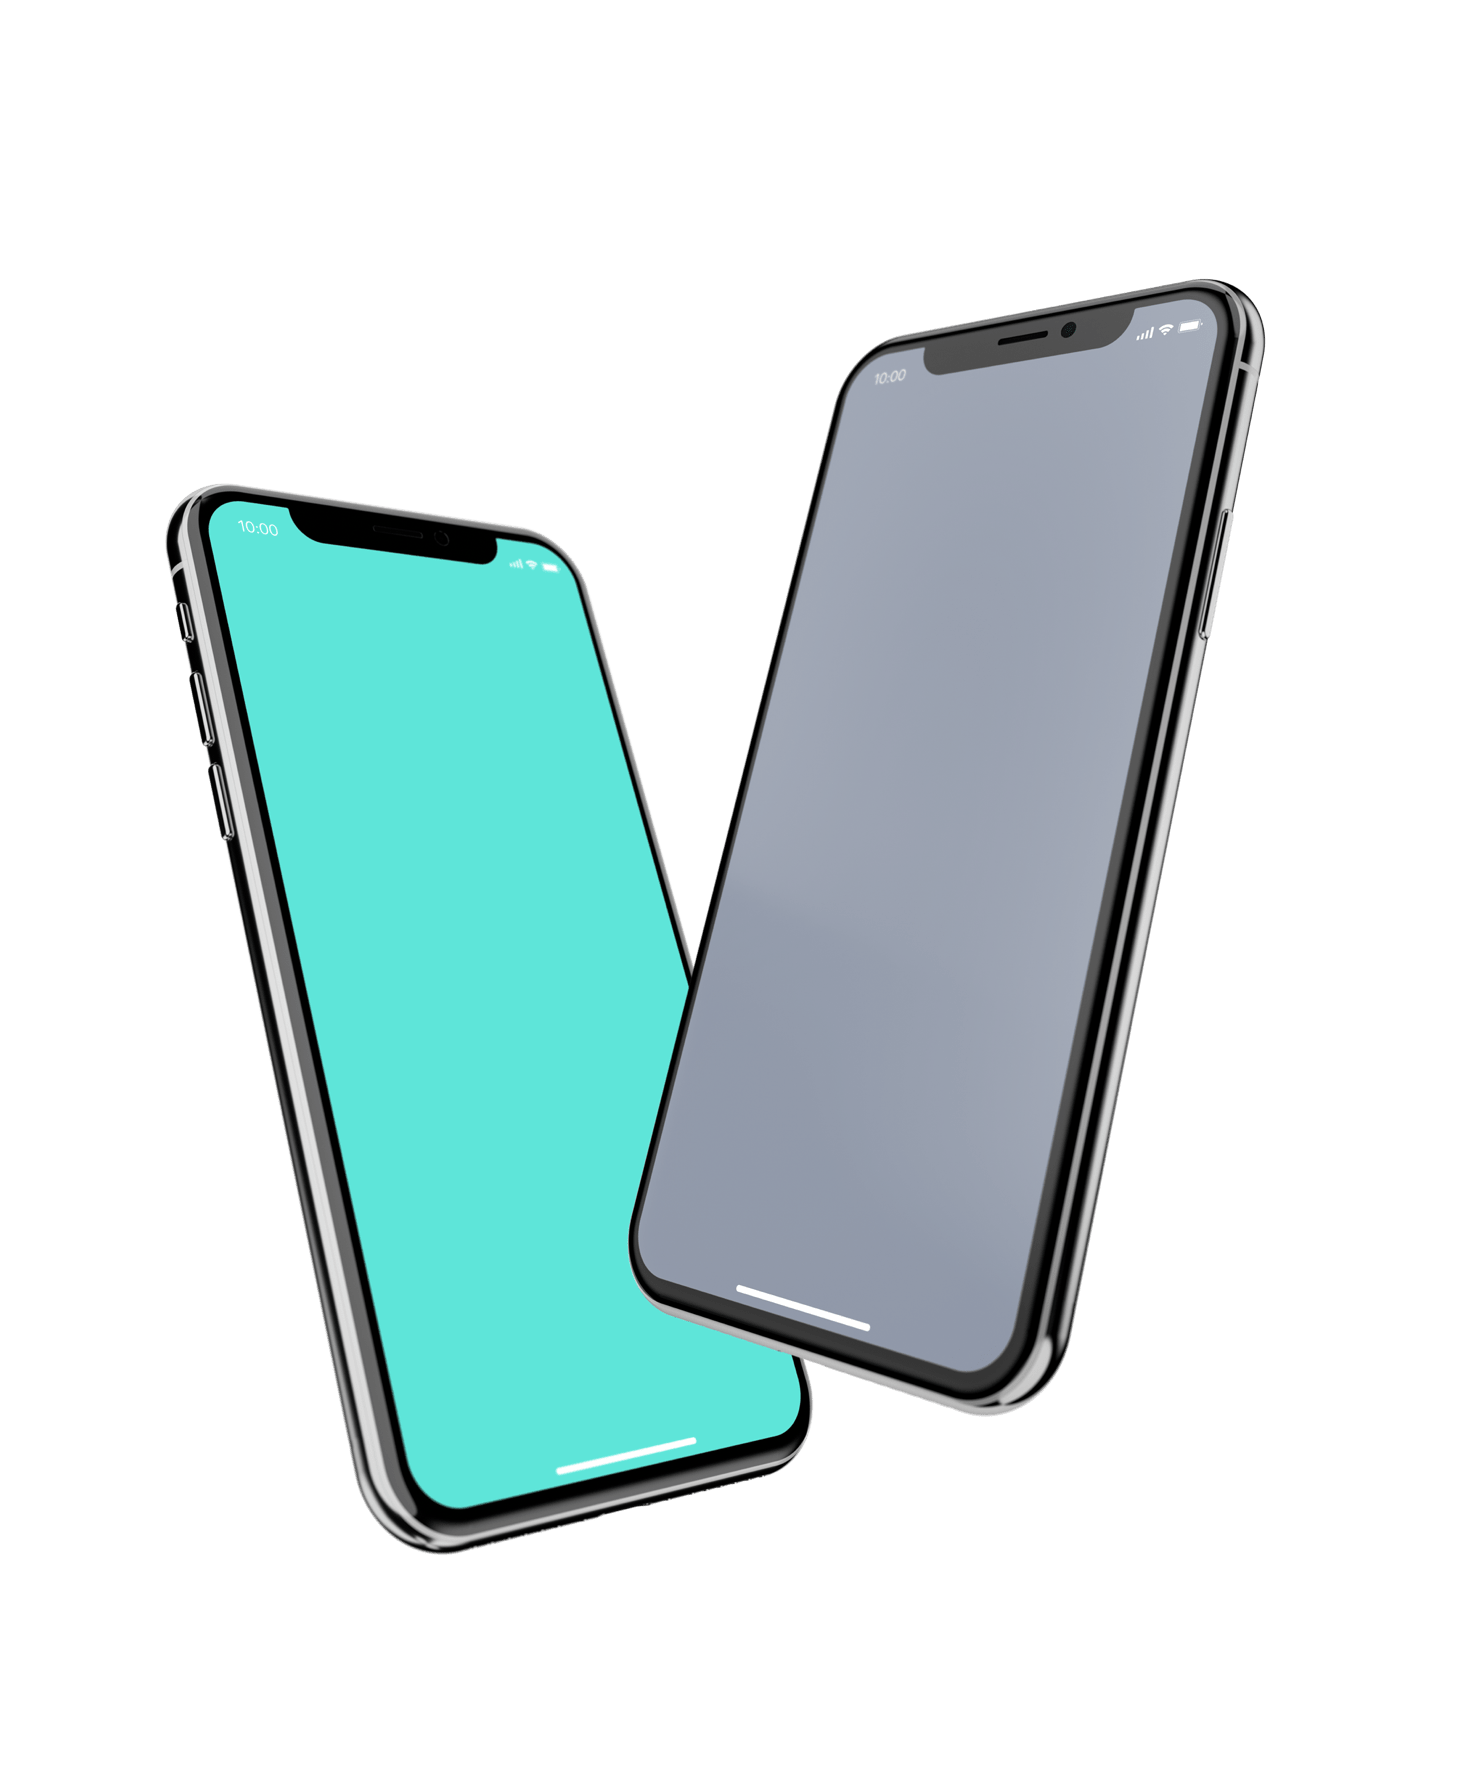
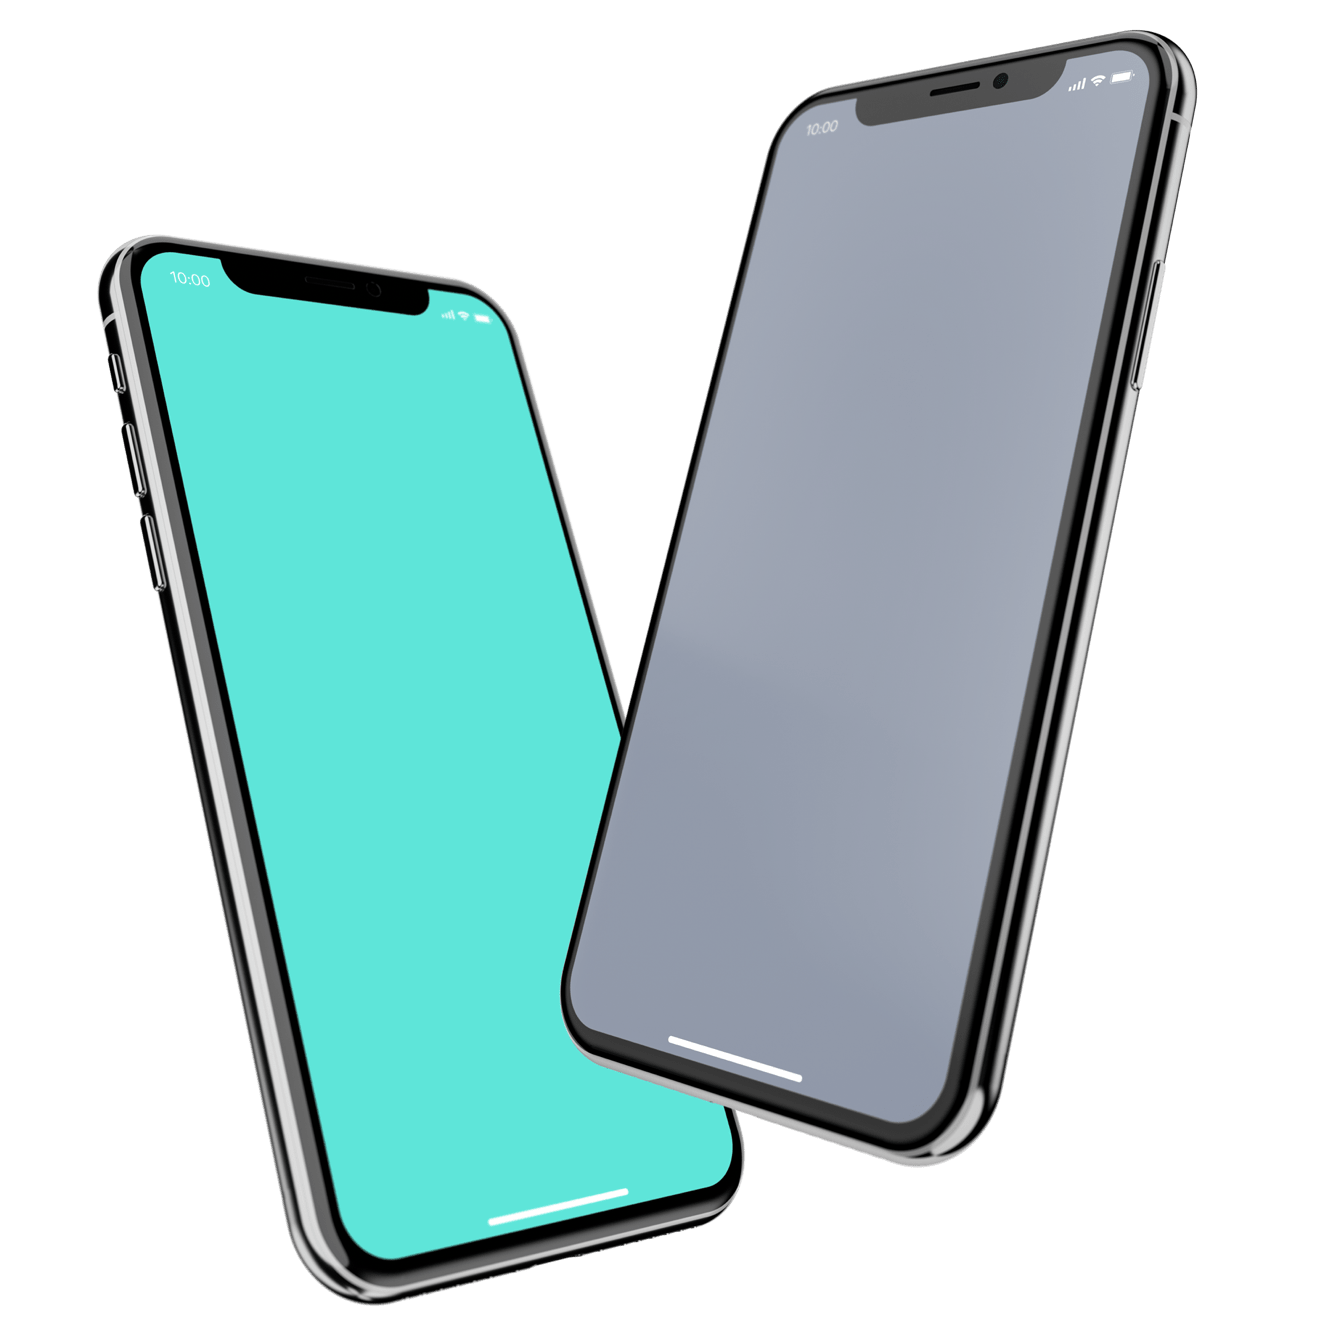
full screen vesion - need to do fix tablet

Changed region(s): [[0.0625, 0.0, 0.9062, 0.9769]]

diff --git a/style_product.css b/style_product.css
@@ -49,7 +49,7 @@ article > p{
 }
 
 button.playstore{
-    width: 9rem;
+    width: 40%;
     height: 3.5rem;
     background-color: white;
     border-radius: 4rem;
@@ -62,14 +62,14 @@ button.playstore{
 }
 
 button.playstore > img {
-    width: 2.5rem;
-    height: 2.5rem;
+    width: 2.2rem;
+    height: 2.2rem;
     margin-left: 0.4rem;
 }
 
 button.playstore > strong{
     color: var(--teal-color);
-    font-size: 0.8rem;
+    font-size: 0.7rem;
 }
 
 .downloadbuttons{
@@ -115,11 +115,6 @@ ol > li > p{
 #decoration{
     background-color: white;
     display: none;
-    height: 30vw;
-}
-
-#decoration > img {
-    padding: 1rem;
 }
 
 #contact_form > h3 {
@@ -161,6 +156,7 @@ button.form{
     grid-template-rows: 2rem 6rem 1fr;
     color: var(--black);
     margin-top: 4rem;
+    padding-bottom: 1rem;
     
 }
 #instagram > a{
@@ -205,4 +201,111 @@ button.form{
     height: 6rem;
     background-color: var(--pink);
     margin: 0.2rem;
+}
+
+@media only screen and (min-width: 900px){
+    main{
+        min-width: 800px;
+        max-width: 1700px;
+        padding: 3rem;
+    }
+    #top {
+        display: grid;
+        grid-template-columns: 4fr 6fr;
+        grid-template-rows: 5fr 1fr;
+    }
+    article{
+        max-width: 500px;
+    }
+    #phonedescription{
+        grid-area: 1 / 1 / span 1 / span 1;
+        max-width: 400px;
+        align-self: center; 
+    }
+    #mockup{
+        grid-area: 1 / 2 / span 1 / span 1;
+        height: 90%;
+    }
+    #mockup > img {
+        height: 90%;
+        bottom: -20%;
+    }
+    .scrolldown{
+        display: flex;
+        background-color: var(--white);
+        width: 180px;
+        height: 4rem;
+        grid-area: 2 / 1 / span 1 / span 2;
+        padding: 1rem;
+        border-radius: 2rem;
+        justify-self: center;
+        margin-top: -17vw;
+        opacity: 80%;
+    }
+
+    .scrolldown > img{
+        height: 2rem;
+        width: auto;
+    }
+    .scrolldown > strong{
+        color: var(--teal-color);
+    font-size: 0.7rem;
+    margin-left: 1rem;
+    }
+    #conversation{
+        display: flex;
+        height: auto;
+        margin-top: -10rem;
+    }
+    #conversation > img {
+        display: block;
+        width: 30%;
+    }
+    img#texts{
+        margin: -8vw 2rem 0 -7vw;
+    }
+    #whyus {
+        margin-top: 4rem;
+    }
+    #whyus > ol{
+        display: flex;
+    }
+    #whyus > ol >li {
+        padding: 3rem;
+    }
+    #whyus > div.underline{
+        width: 20%;
+    }
+    #decoration{
+        display: flex;
+        height: 15vw;
+        margin: 0 0;
+    }
+    
+    #decoration > img {
+        padding: 1rem;
+    }
+    #contactinsta{
+        align-items: center;
+        justify-items: center;
+        margin-top: 4rem;
+        display: grid;
+        grid-template-columns: 1fr 1fr;
+        grid-template-rows: 1fr 2fr;
+    }
+    #contact {
+        grid-area: 1 / 1 / span 1 / span 1;
+    width: 500px;
+    }
+    #contact_form {
+        grid-area: 2 / 1 / span 1 / span 1;
+        width: 450px;
+    }
+    #contact_form > h3 {
+        margin: 0;
+    }
+    #instagram{
+        grid-area: 1 / 2 / span 2 / span 1;
+        width: 400px;
+    }
 }

diff --git a/product.html b/product.html
@@ -44,9 +44,9 @@
             </div>
         </section>
         <section id="conversation">
-            <img src="images/man_transparent.png"
+            <img id="dude" src="images/man_transparent.png"
                 alt="illustration of a men in bright pink colors holding yellow old phone in his hand">
-            <img src="images/texts.png" alt="text bubbles with sample converation between the sex educator and a kid">
+            <img id="texts" src="images/texts.png" alt="text bubbles with sample converation between the sex educator and a kid">
             <article>
                 <h1>Get answers to all your questions from professionals</h1>
                 <div class="underline"></div>
@@ -99,8 +99,8 @@
                 alt="illustration of a man with dark hair wearing a red shirt, he's infront of a dark blue background with yellow dots">
         </section>
 
-        <section>
-            <article>
+        <section id="contactinsta">
+            <article id="contact">
                 <h1>Do you have any more questions?</h1>
                 <div class="underline"></div>
                 <p>Feel free to leave us a message via the form! One of our colleagues will get back to you very soon
